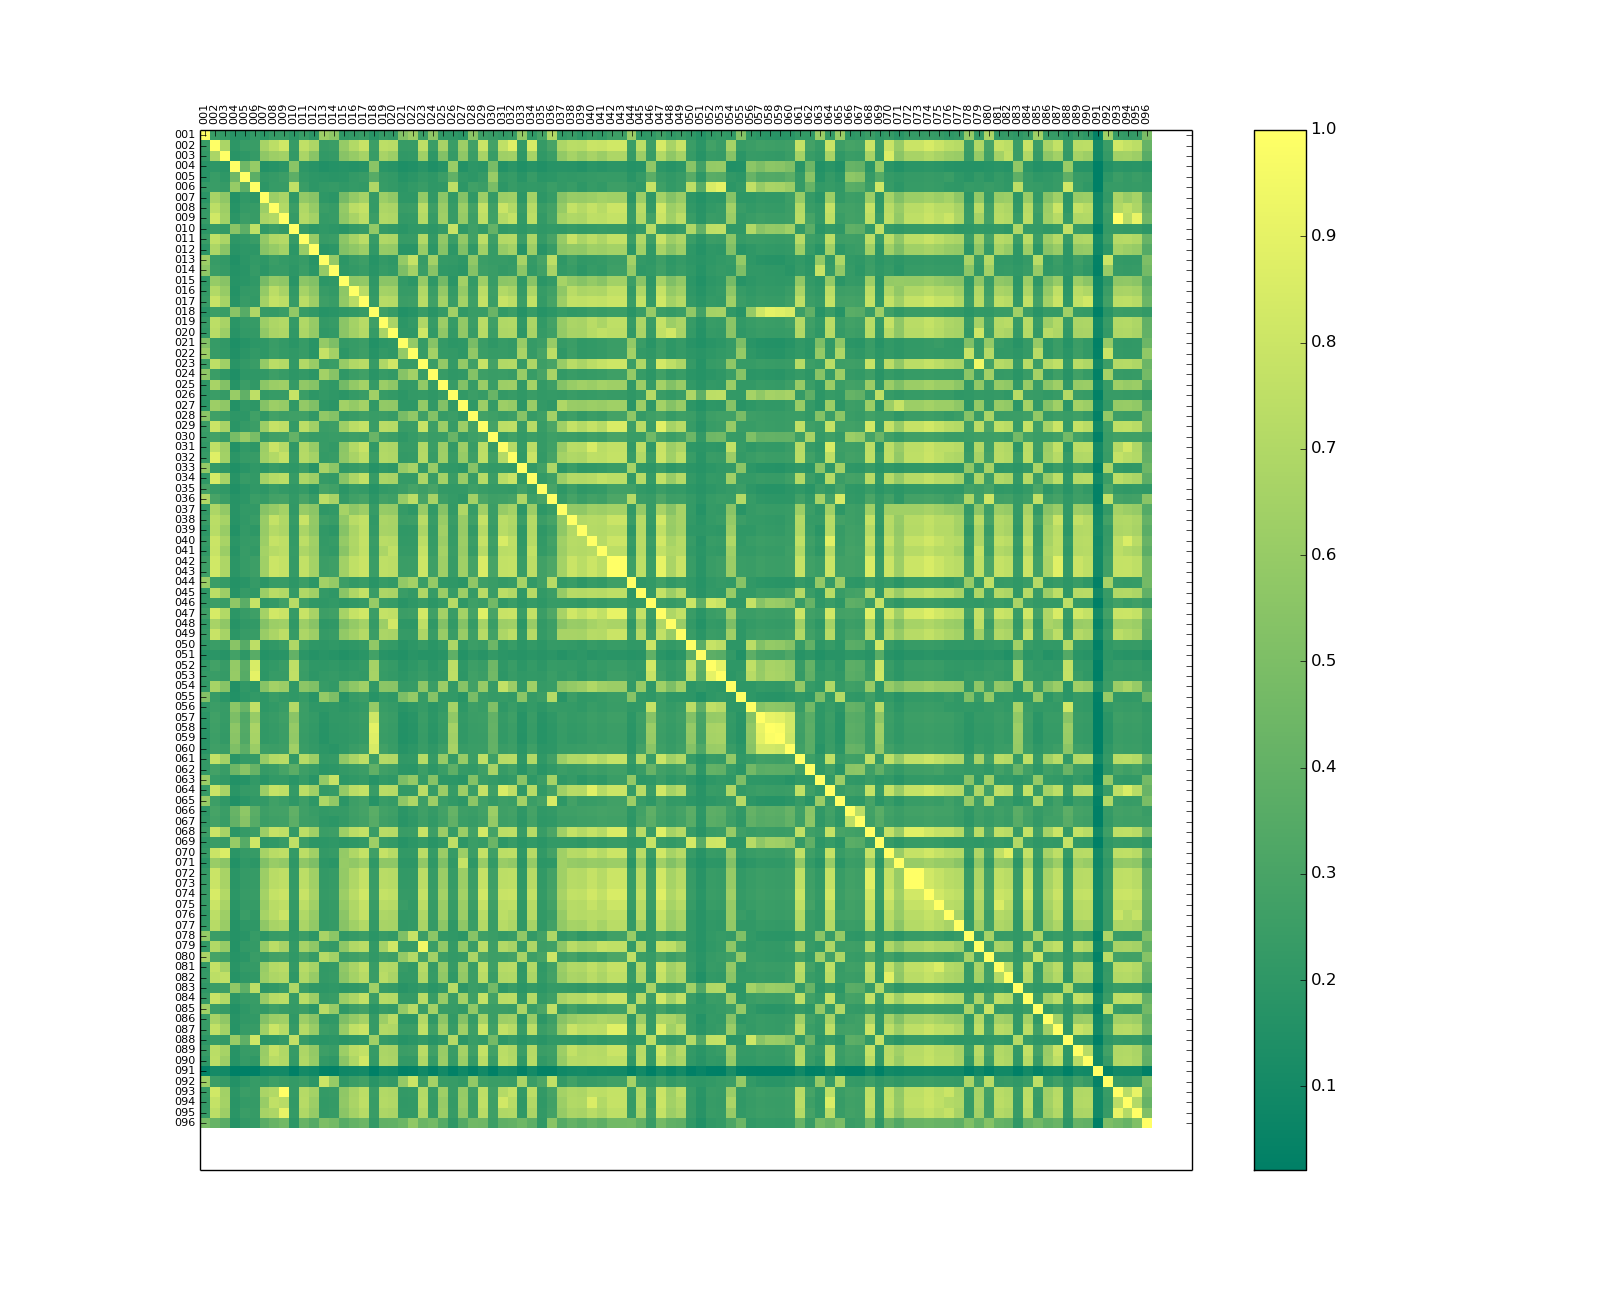
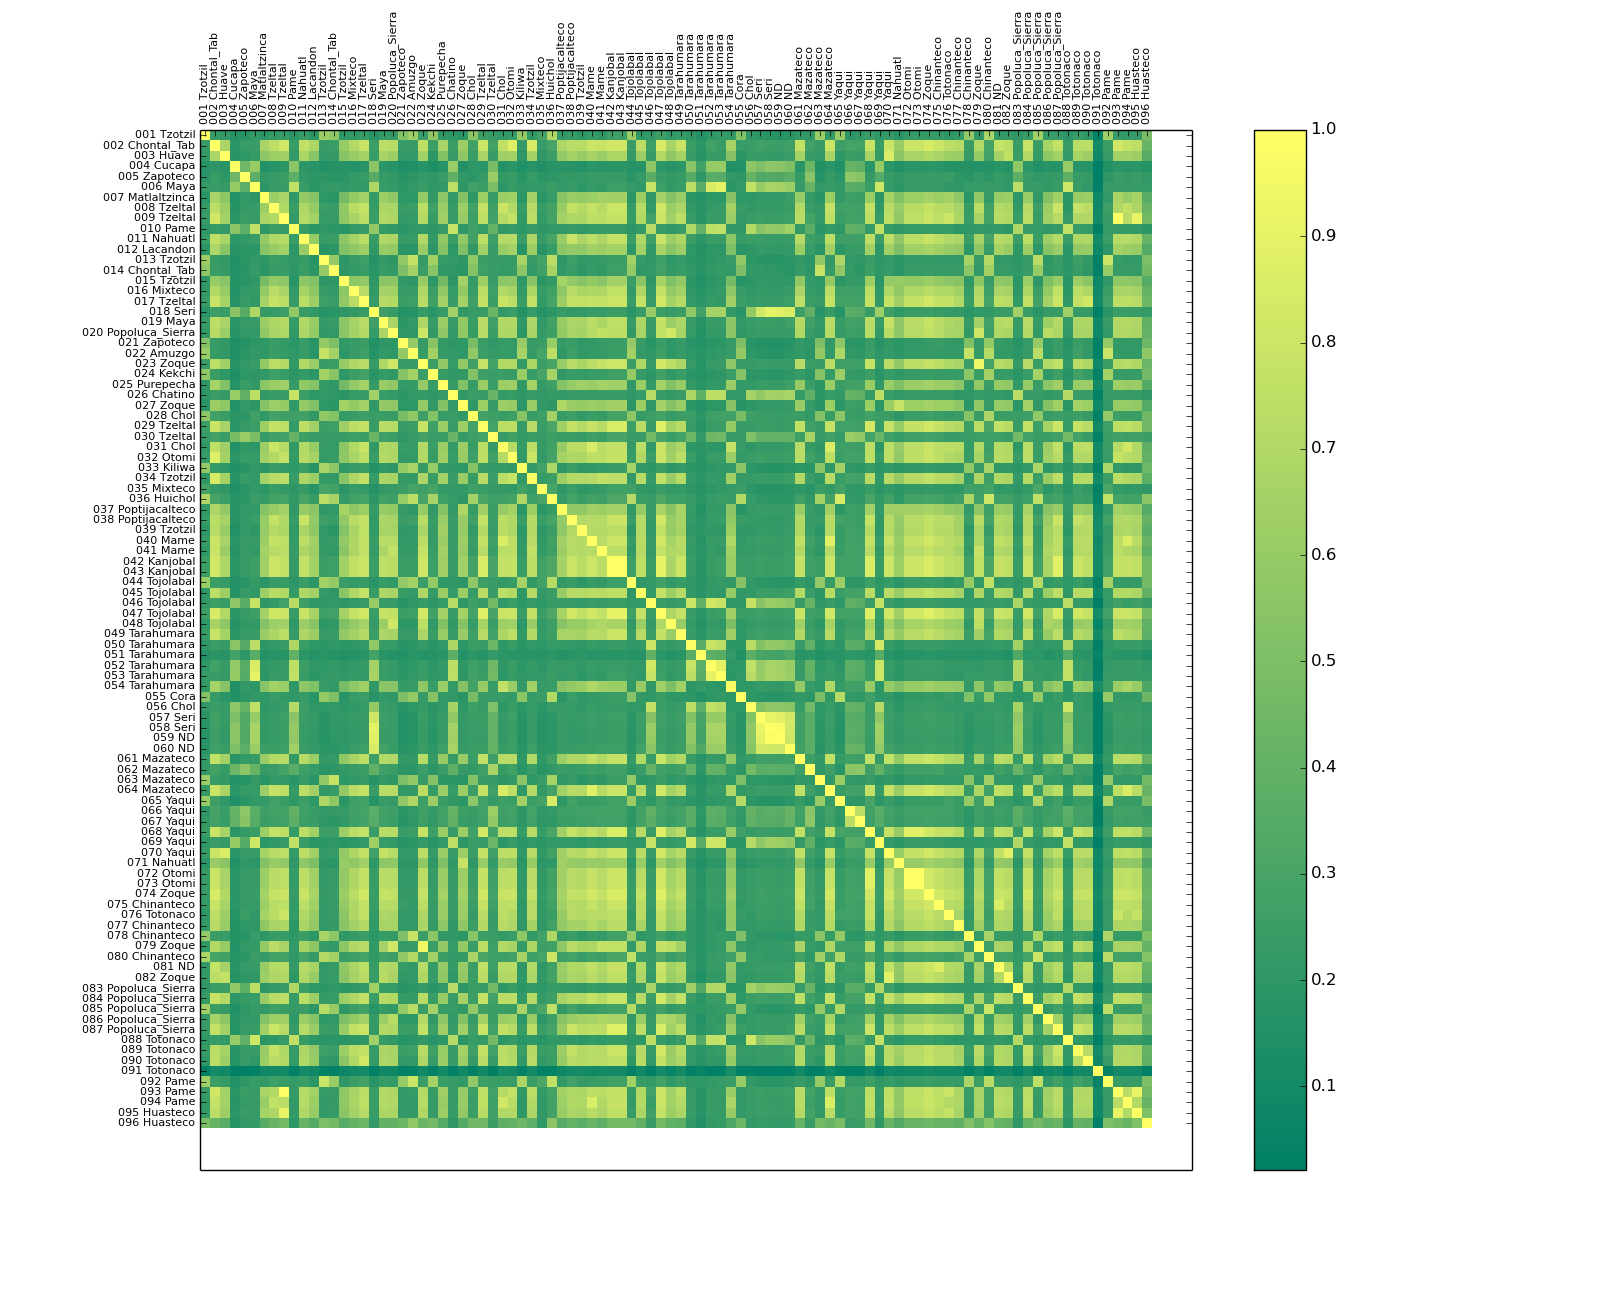
Updated plot and plotter with ethnicities

Changed region(s): [[0.0312, 0.0923, 0.125, 0.8615], [0.125, 0.0, 0.7188, 0.0923]]

diff --git a/scripts/heatmap.py b/scripts/heatmap.py
@@ -18,7 +18,7 @@ sets = {}
 for path in samples.file_list:
     variants = vcf.Reader( open( path, 'r' ), compressed=True)
 
-    sample   = path.replace('.vcf.gz', '')
+    sample   = path.replace('.vcf.gz', ' ') + samples.ethnicity[path.replace('.vcf.gz', '')]
     sets[sample] = []
     for v in variants:
         if v.is_snp:

diff --git a/scripts/samples.py b/scripts/samples.py
@@ -191,7 +191,7 @@ json_list = ['../vep/001_list.json',
              '../vep/095_list.json',
              '../vep/096_list.json',]
 
-etnia = {
+ethnicity = {
     '001': 'Tzotzil',
     '002': 'Chontal_Tab',
     '003': 'Huave',
